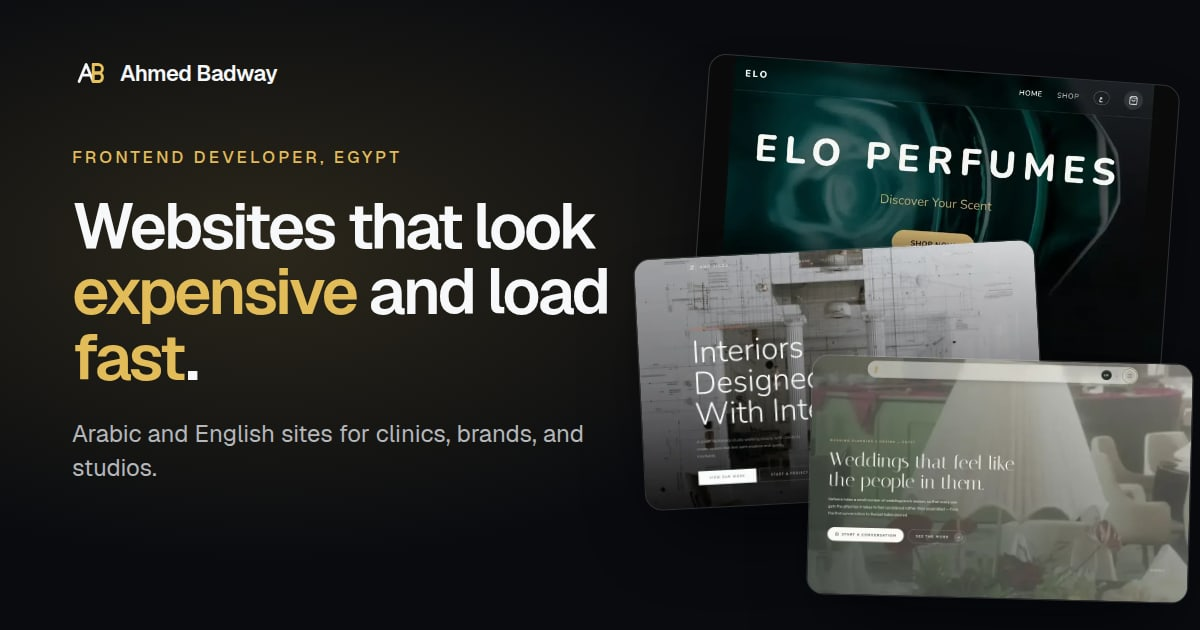
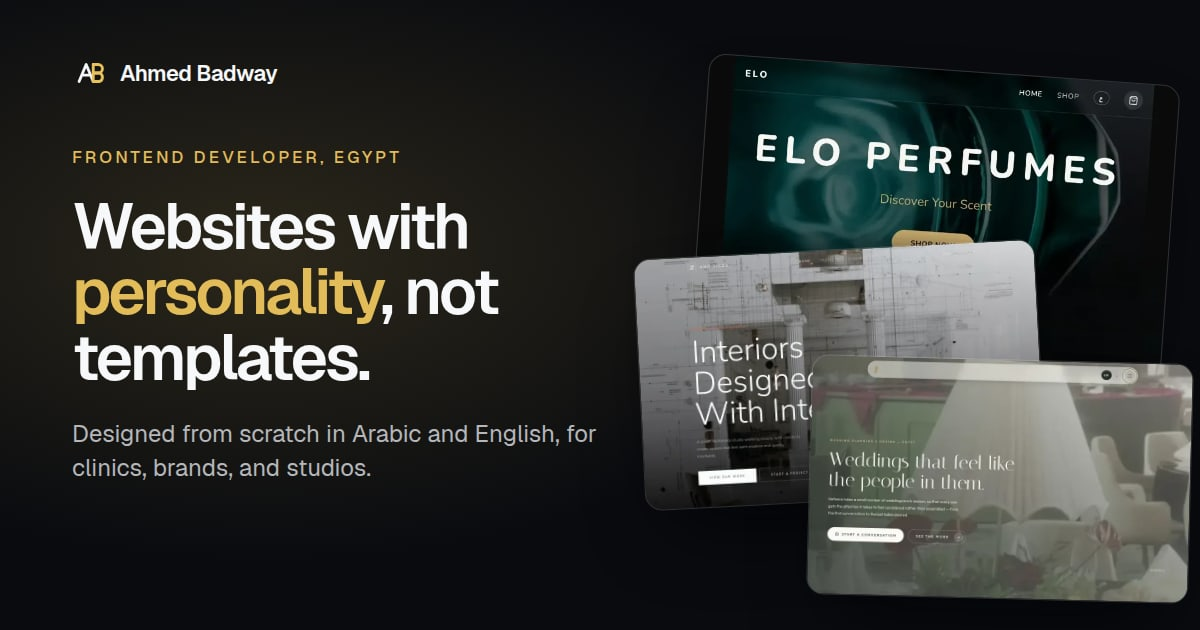
Rewrite hero headline around personality, not templates
The Arabic headline was a literal translation and 'شكلها غالي' read as
'pricey' rather than premium. Both languages now lead with the claim only
this portfolio can make (every site is designed from scratch), the lead
line no longer repeats 'websites', and the Open Graph image carries the
new headline.

Claude-Session: https://claude.ai/code/session_01SBxdSfUCboB14UEnYBM6Nk

Changed region(s): [[0.0617, 0.4222, 0.5242, 0.6333], [0.0617, 0.6635, 0.4933, 0.754], [0.2775, 0.3016, 0.4933, 0.4222]]

diff --git a/src/i18n/translations.js b/src/i18n/translations.js
@@ -22,9 +22,9 @@ export const translations = {
     'lang.ar': 'العربية',
 
     'hero.kicker': 'Ahmed Badway, frontend developer in Egypt',
-    'hero.title': 'I build websites that look *expensive* and load *fast*.',
+    'hero.title': 'Websites with *personality*, not templates.',
     'hero.lead':
-      'Arabic and English sites for clinics, brands, and studios. Designed and coded by me, from first sketch to launch.',
+      'Each one designed from scratch, in Arabic and English, for clinics, brands, and studios. From the first idea until it goes live.',
     'hero.primary': 'Start a project',
     'hero.secondary': 'See the work',
     'hero.visual': 'Screenshots of three websites built by Ahmed Badway',
@@ -187,9 +187,9 @@ export const translations = {
     'lang.ar': 'العربية',
 
     'hero.kicker': 'أحمد بدوي، مطوّر واجهات من مصر',
-    'hero.title': 'بعمل مواقع شكلها *غالي* وبتفتح *بسرعة*.',
+    'hero.title': 'مواقع ليها *شخصية*، مش قوالب جاهزة.',
     'hero.lead':
-      'مواقع بالعربي والإنجليزي للعيادات والبراندات والاستوديوهات. بصمّمها وبكتب كودها بنفسي، من أول اسكتش لحد الإطلاق.',
+      'كل موقع بصمّمه من الصفر، بالعربي والإنجليزي، للعيادات والبراندات والاستوديوهات. من أول فكرة لحد ما يبقى لايف.',
     'hero.primary': 'ابدأ مشروعك',
     'hero.secondary': 'شوف الأعمال',
     'hero.visual': 'صور لتلات مواقع من شغل أحمد بدوي',
